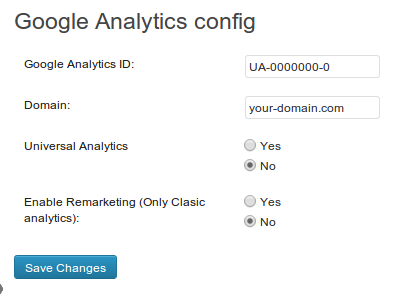
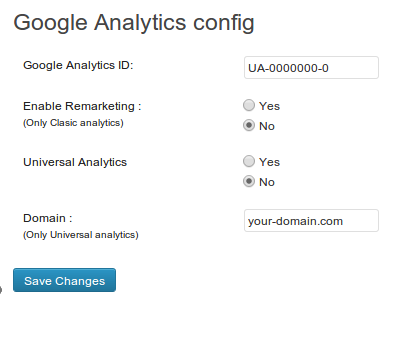
Update documentation
git-svn-id: https://plugins.svn.wordpress.org/nk-google-analytics/trunk@717081 b8457f37-d9ea-0310-8a92-e5e31aec5664

diff --git a/options.php b/options.php
@@ -1,5 +1,5 @@
  <div class="wrap">
-<h2>Google Analytics config</h2>
+<h2>NK Google Analytics config</h2>
 
 <form method="post" action="options.php">
 <?php wp_nonce_field('update-options'); ?>
@@ -14,7 +14,7 @@
 </tr>
 
 <tr valign="top">
-<th scope="row">Enable Remarketing (Only Clasic analytics):</th>
+<th scope="row">Enable Remarketing :<br><small>(Only Clasic analytics)</small></th>
 <td>
 	<input type="radio" name="nkweb_Display_Advertising" value="true" <?php if (get_option('nkweb_Display_Advertising') == "true"){ echo "checked "; } ?>> Yes<br>
 	<input type="radio" name="nkweb_Display_Advertising" value="false"<?php if (get_option('nkweb_Display_Advertising') == "false"){ echo "checked "; } ?>>  No <br>	
@@ -30,7 +30,7 @@
 </tr>
 
 <tr valign="top">
-<th scope="row">Domain (Only Universal analytics):</th>
+<th scope="row">Domain :<br><small>(Only Universal analytics)</small></th>
 <td><input type="text" name="nkweb_Domain" value="<?php echo get_option('nkweb_Domain'); ?>" /></td>
 </tr>
 
